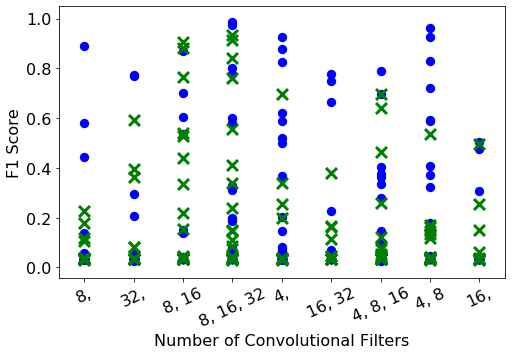
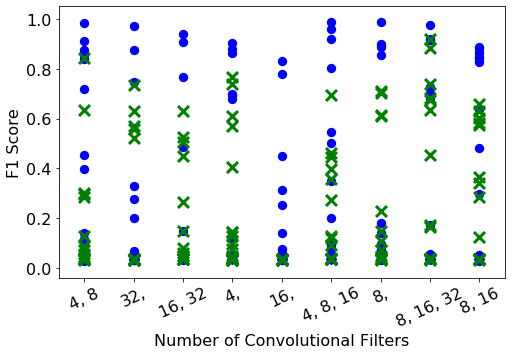
updates hp search results

diff --git a/model_choices_hyperparameter_results.tex b/model_choices_hyperparameter_results.tex
@@ -385,13 +385,13 @@ Random efficiency experiment curves for the CNN trained on the simple and comple
 
 Figure \ref{fig:cnn_hyperparameters_f1_score} shows the distribution of hyperparameters searched for the CNN and their average validation dataset F1 scores from the 5-folds cross validation. Similar to the DNN, few networks trained on the complete dataset achieved high validation dataset F1 scores. Conclusions based on these diagrams suffer from a small (albeit larger than the DNN) sample size.
 
-The CNN's training performance was largely agnostic to many hyperparameters, including those associated with the dense part of the CNN. Figure \ref{fig:cnn_hyperparameters_f1_score} shows that both datasets train similarly over a wide range of learning rates below 10$^{-2}$, dense layer dropout rates below 0.8, L2 regularization scales below 10$^{-1}$, between 50 - 200 total dense nodes, and both mini-batch sizes.
+The CNN's training performance is largely agnostic to many hyperparameters, including those associated with the dense part of the CNN. Figure \ref{fig:cnn_hyperparameters_f1_score} shows that both datasets train similarly over a wide range of learning rates below 10$^{-2}$, dense layer dropout rates below 0.8, L2 regularization scales below 10$^{-1}$, between 50 - 200 total dense nodes, and both mini-batch sizes.
 
-The CNN's training performance on the complete dataset is sensitive to hyperparameters related to model capacity. The total number of convolutional layers had the largest affect on the performance of the complete dataset. Because of the additional complexity in the complete dataset, deeper networks - which extract more abstract features - are necessary for good performance. CNNs with additional convolutional layers should be explored for problems of similar complexity. Additional dense layers did not provide the same boost in performance. The simple dataset performed well with a large range of total dense layers while the complete dataset performed well with fewer layers, achieving the best validation dataset F1 score with a single layer. A high number of dense layers overtrain on more complicated datasets. 
+The CNN's training performance on the complete dataset is sensitive to hyperparameters related to model capacity. The total number of convolutional layers have the largest affect on the performance of models trained using the complete dataset. Because of the additional complexity in the complete dataset, deeper networks - which extract more abstract features - are necessary for good performance. CNNs with additional convolutional layers should be explored for problems of similar complexity. Additional dense layers did not provide the same boost in performance. Models trained using the simple dataset perform well with a large range of total dense layers while the complete dataset performs well with fewer layers, achieving the best validation dataset F1 score with a two layers. Simple and complete models with three dense layers have maximum F1 scores lower than two or three dense layers.
 
-Performance was also sensitive to other convolutional hyperparameters. Both datasets worked well with each convolutional pooling size, but the complete dataset worked best when the convolutional pooling size was largest. Longer pooling sizes add more shift and scale invariance, which is more important in the complete dataset due to a wider range of detector gain settings. Similarly, longer convolutional kernel lengths were required for good performance in the complete dataset. Longer kernels incorporate information in a greater range of channels. Longer kernels may be necessary to incorporate photopeaks and Compton continua, where smaller filters may be sufficient to identify photopeaks alone. Identifying the photopeaks may be enough to identify isotopes in the simple dataset because there are fewer confounding variables. The preference for depth in the convolutional part of the CNN was also seen in the number of convolutional filters.
+Performance is also sensitive to other convolutional hyperparameters. Models trained using the simple datasets perform well with each convolutional pooling size. As a general trend, models trained with the complete dataset perform better with larger convolutional pooling sizes. Longer pooling sizes add more shift and scale invariance, which is more important in the complete dataset due to a wider range of detector gain settings. Longer pooling sizes are necessary to incorporate photopeaks and Compton continua, where smaller pooling sizes may be sufficient to retain only photopeak information. Identifying the photopeaks may be enough to identify isotopes in the simple dataset because there are fewer confounding variables. Convolutional kernel lengths of 16 are required for optimal performance for both datasets. The preference for depth in the convolutional part of the CNN is also seen in the number of convolutional filters.
 
-The effect of scaling on performance was similar to the DNN. Using $sqrt$ scaling yielded the best performing networks, especially when tied with $max$ normalization. While $log1p-L1$ performed very poorly, $sqrt-L1$ yielded comparable performance to the other scaling strategies - despite the discrepancy in feature magnitude. This is likely due to the fact that the CNN extracts scale invariant features (like photopeak locations) from the input signal.
+The effect of scaling on performance was similar to the DNN. Using $sqrt$ scaling yielded the best performing networks, especially when tied with $max$ normalization.
 
 
 \begin{figure}[H]
